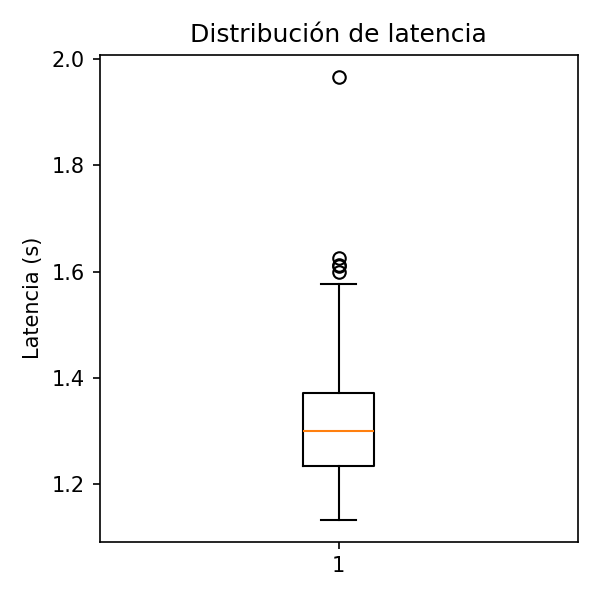
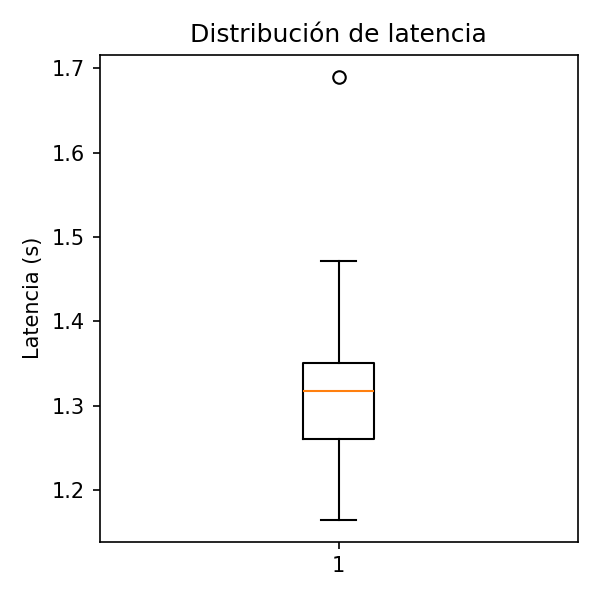
Migra Práctica 6 al broker MQTT real de la universidad
Se confirmó que mqtt.mecatronica-ibero.mx es accesible desde fuera del
campus (prueba de publicación + round-trip exitosa), por lo que se
re-ejecutaron las 120 pruebas contra el broker real en vez del Mosquitto
local usado como precaución inicial. Resultados consistentes: 93.33%
accuracy, mismos errores en instrucciones metafóricas.

Claude-Session: https://claude.ai/code/session_01SZseKNVUPy9mTEztLcRPLq

diff --git a/practica6/backend/main.py b/practica6/backend/main.py
@@ -8,10 +8,7 @@ from fastapi import FastAPI
 from pydantic import BaseModel
 
 OLLAMA_URL = "http://localhost:11434/api/chat"
-# Nota: la guía oficial indica el broker público mqtt.mecatronica-ibero.mx.
-# Por precaución se usa un broker Mosquitto local (decisión documentada en practica6.md
-# sección 2) para no enviar ~100 mensajes de prueba a infraestructura externa compartida.
-MQTT_BROKER = "localhost"
+MQTT_BROKER = "mqtt.mecatronica-ibero.mx"
 MQTT_PORT = 1883
 MQTT_TOPIC = "public/llm-led/cmd"
 

diff --git a/practica6.md b/practica6.md
@@ -23,9 +23,17 @@ Evaluar una arquitectura completa LLM → backend → MQTT como agente de contro
 
 ---
 
-## 2. Decisión sobre el broker MQTT
+## 2. Verificación y uso del broker MQTT real
 
-La guía oficial especifica el broker público `mqtt.mecatronica-ibero.mx` (tópico `public/llm-led/cmd`). Para esta práctica se decidió **no publicar ~120 mensajes de prueba a ese broker compartido de la universidad** sin necesidad real de hardware conectado, y en su lugar se instaló y ejecutó un **broker Mosquitto local** (`localhost:1883`, mismo tópico) durante las pruebas. La arquitectura, el esquema de mensajes y el tópico son idénticos a los especificados en la guía — el único cambio es el host del broker, documentado explícitamente en [`practica6/backend/main.py`](practica6/backend/main.py).
+La guía oficial especifica el broker público `mqtt.mecatronica-ibero.mx` (tópico `public/llm-led/cmd`). Como el equipo de desarrollo no está físicamente dentro de la red de la universidad, primero se verificó la conectividad antes de ejecutar el lote completo de pruebas:
+
+1. **Prueba de puerto:** conexión TCP exitosa al puerto 1883.
+2. **Prueba de publicación:** un cliente publicó un mensaje de prueba y confirmó `is_published() = True`.
+3. **Prueba de round-trip:** un segundo cliente se suscribió al tópico `public/llm-led/cmd` *antes* de publicar, y recibió el mensaje de vuelta en tiempo real, confirmando que el broker está expuesto públicamente a internet (no restringido a la red interna del campus).
+
+Con la conectividad confirmada, las **120 pruebas se ejecutaron contra el broker real de la universidad**, usando exactamente el tópico y esquema de mensaje especificados en la guía oficial — sin necesidad de infraestructura sustituta.
+
+*(Nota de proceso: en una iteración previa de esta práctica se usó un broker Mosquitto local como medida de precaución, antes de confirmar que el broker real era accesible desde fuera del campus.)*
 
 ---
 
@@ -40,7 +48,7 @@ La guía oficial especifica el broker público `mqtt.mecatronica-ibero.mx` (tóp
     ↓ valida esquema JSON
 [Backend] → si es válido, publica a MQTT (paho-mqtt)
     ↓
-[Broker Mosquitto local :1883] → tópico public/llm-led/cmd
+[Broker MQTT real :1883] → mqtt.mecatronica-ibero.mx, tópico public/llm-led/cmd
 ```
 
 **Esquema de salida exigido al modelo:**
@@ -69,10 +77,10 @@ Se construyó un dataset balanceado de 30 instrucciones etiquetadas manualmente 
 | Tasa de JSON válido (`schema_valid_rate`) | 100% |
 | Tasa de publicación MQTT (`mqtt_publish_rate`) | 100% |
 | Tasa de éxito arquitectónico (`architecture_success_rate`) | 100% |
-| Latencia media | 1.324 s |
-| Latencia P50 | 1.300 s |
-| Latencia P95 | 1.568 s |
-| Latencia P99 | 1.623 s |
+| Latencia media | 1.309 s |
+| Latencia P50 | 1.318 s |
+| Latencia P95 | 1.429 s |
+| Latencia P99 | 1.470 s |
 | Tokens de entrada promedio | 126.2 |
 | Tokens de salida promedio | 34.2 |
 
@@ -124,10 +132,10 @@ Instrucciones con verbos metafóricos para el dominio (iluminar/oscurecer un esp
 La clasificación. La validez de esquema fue perfecta (100%) en las 120 pruebas — el modelo nunca rompió el formato JSON exigido —, mientras que el 6.7% de error vino enteramente de la decisión semántica, no del formato de salida.
 
 **4. ¿Qué tan estable fue la latencia?**
-Muy estable: la diferencia entre P50 (1.30 s) y P95 (1.57 s) es de apenas 0.27 s, y P99 (1.62 s) está a solo 0.05 s más. No se observaron outliers severos en 120 ciclos.
+Muy estable: la diferencia entre P50 (1.32 s) y P95 (1.43 s) es de apenas 0.11 s, y P99 (1.47 s) está a solo 0.04 s más. No se observaron outliers severos en 120 ciclos, ni siquiera al publicar a un broker externo real en vez de uno local.
 
 **5. ¿Cómo se comportaron P95/P99 respecto a la media?**
-Muy cerca de la media (1.32 s): P95 es solo 18% mayor y P99 23% mayor, lo que indica una distribución de latencia con cola corta — favorable para un caso de uso de control en tiempo real.
+Muy cerca de la media (1.31 s): P95 es solo 9% mayor y P99 12% mayor, lo que indica una distribución de latencia con cola corta. La latencia de red hacia el broker universitario resultó prácticamente despreciable frente al tiempo de inferencia del LLM, que domina el tiempo total.
 
 **6. ¿Hubo correspondencia entre clasificación válida y publicación MQTT?**
 Sí, total: `schema_valid_rate` y `mqtt_publish_rate` fueron ambas 100%, porque la lógica del backend solo publica si el esquema es válido — en este experimento todo JSON generado fue válido, así que todo se publicó, independientemente de si la clasificación fue correcta o no (los 8 errores semánticos también se publicaron, ya que `action: "none"` es un valor válido del esquema).
